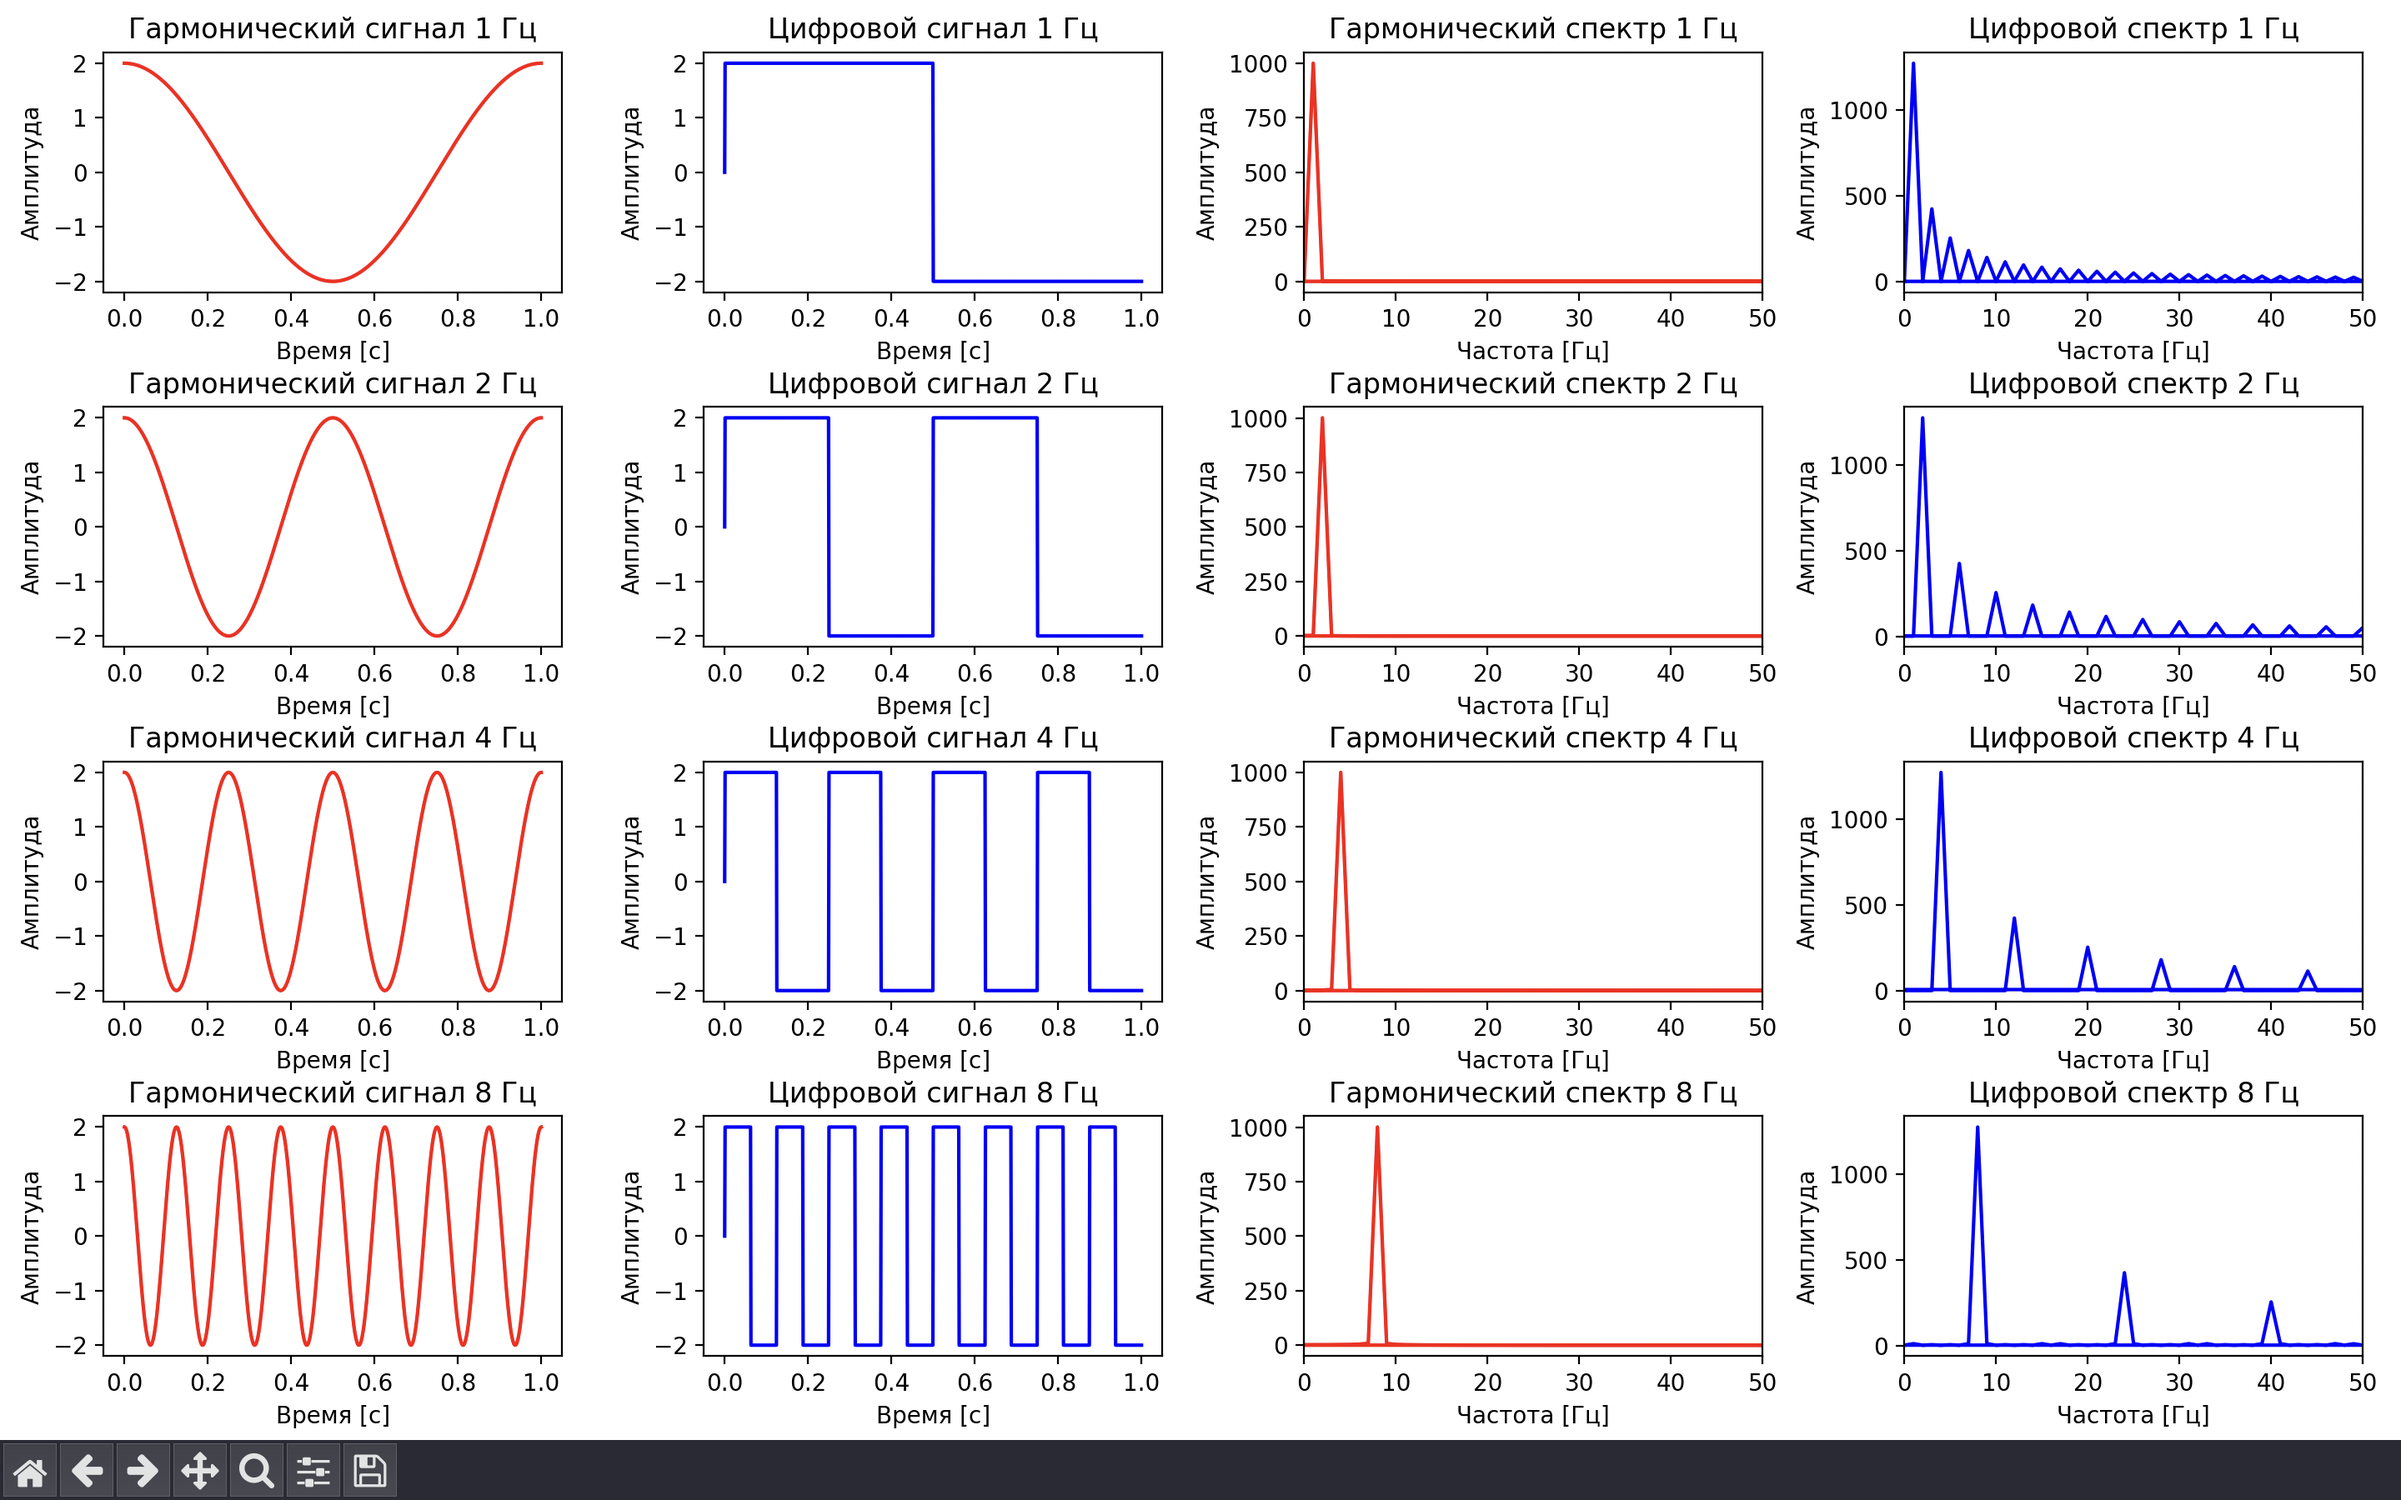
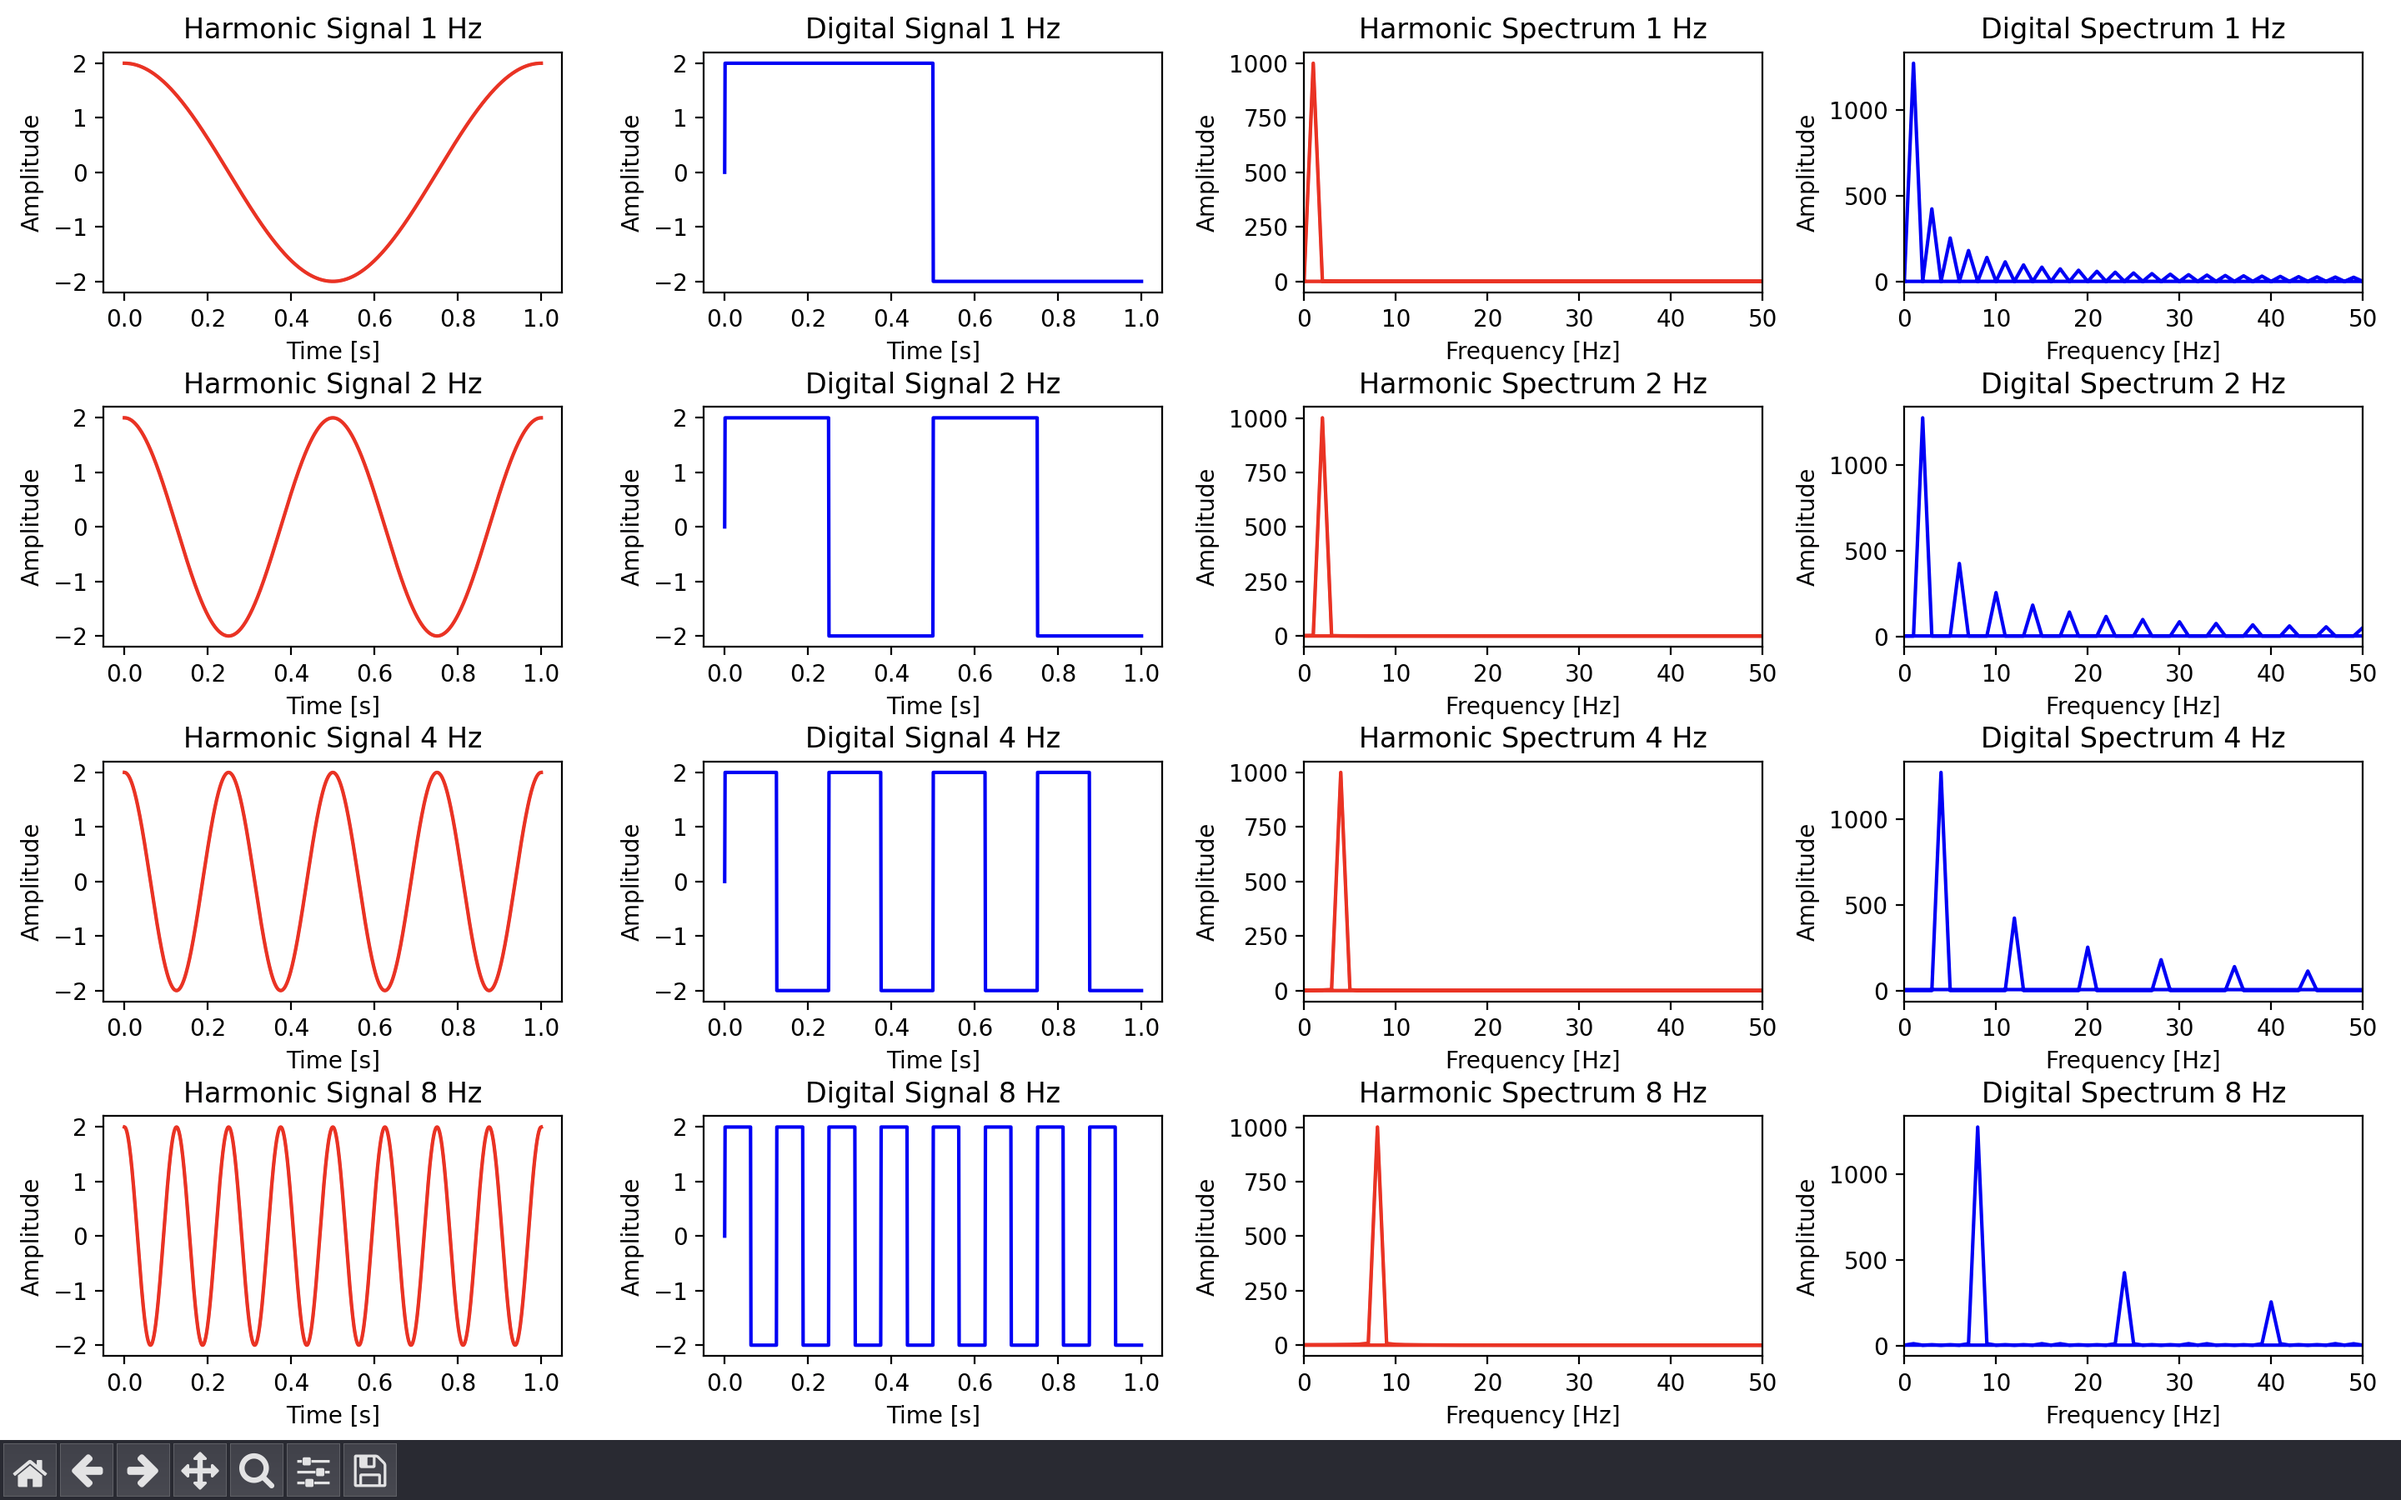
update task 1

diff --git a/task_1/index.py b/task_1/index.py
@@ -10,7 +10,7 @@ frequencies = [1, 2, 4, 8]
 def generate_sine_signals(frequencies, amplitude, time, initial_phase):
     signals = []
     for freq in frequencies:
-        omega = 2 * np.pi * freq  # Угловая частота
+        omega = 2 * np.pi * freq  # Angular frequency
         phase = omega * time + initial_phase
         signal = amplitude * np.cos(phase)
         signals.append(signal)
@@ -29,7 +29,7 @@ def calculate_spectrum(signals):
     return [np.abs(np.fft.fft(signal)) for signal in signals]
 
 
-# Генерация сигналов
+# Signal generation
 sine_signals = generate_sine_signals(frequencies, amplitude, time, initial_phase)
 square_signals = generate_square_signals(time, frequencies, amplitude)
 frequencies_for_fft = np.fft.fftfreq(len(time), d=0.001)
@@ -45,26 +45,26 @@ def configure_subplot(ax, x_data, y_data, title, xlabel, ylabel, color, xlim=Non
 
 
 def plot_signals_and_spectra():
-    """Отображает графики сигналов и их спектров."""
+    """Displays plots of signals and their spectra."""
     fig, axs = plt.subplots(4, 4, figsize=(15, 10))
 
-    # Для каждого сигнала (гармонического и цифрового)
+    # For each signal (harmonic and digital)
     for i, freq in enumerate(frequencies):
-        # Гармонический сигнал
+        # Harmonic signal
         configure_subplot(axs[i, 0], time, sine_signals[i],
-                          f'Гармонический сигнал {freq} Гц', 'Время [с]', 'Амплитуда', 'red')
+                          f'Harmonic Signal {freq} Hz', 'Time [s]', 'Amplitude', 'red')
 
-        # Цифровой сигнал
+        # Digital signal
         configure_subplot(axs[i, 1], time, square_signals[i],
-                          f'Цифровой сигнал {freq} Гц', 'Время [с]', 'Амплитуда', 'b')
+                          f'Digital Signal {freq} Hz', 'Time [s]', 'Amplitude', 'b')
 
-        # Спектр гармонического сигнала
+        # Spectrum of harmonic signal
         configure_subplot(axs[i, 2], frequencies_for_fft, calculate_spectrum(sine_signals)[i],
-                          f'Гармонический спектр {freq} Гц', 'Частота [Гц]', 'Амплитуда', 'red', xlim=(0, 50))
+                          f'Harmonic Spectrum {freq} Hz', 'Frequency [Hz]', 'Amplitude', 'red', xlim=(0, 50))
 
-        # Спектр цифрового сигнала
+        # Spectrum of digital signal
         configure_subplot(axs[i, 3], frequencies_for_fft, calculate_spectrum(square_signals)[i],
-                          f'Цифровой спектр {freq} Гц', 'Частота [Гц]', 'Амплитуда', 'b', xlim=(0, 50))
+                          f'Digital Spectrum {freq} Hz', 'Frequency [Hz]', 'Amplitude', 'b', xlim=(0, 50))
 
     plt.tight_layout()
     plt.show()
